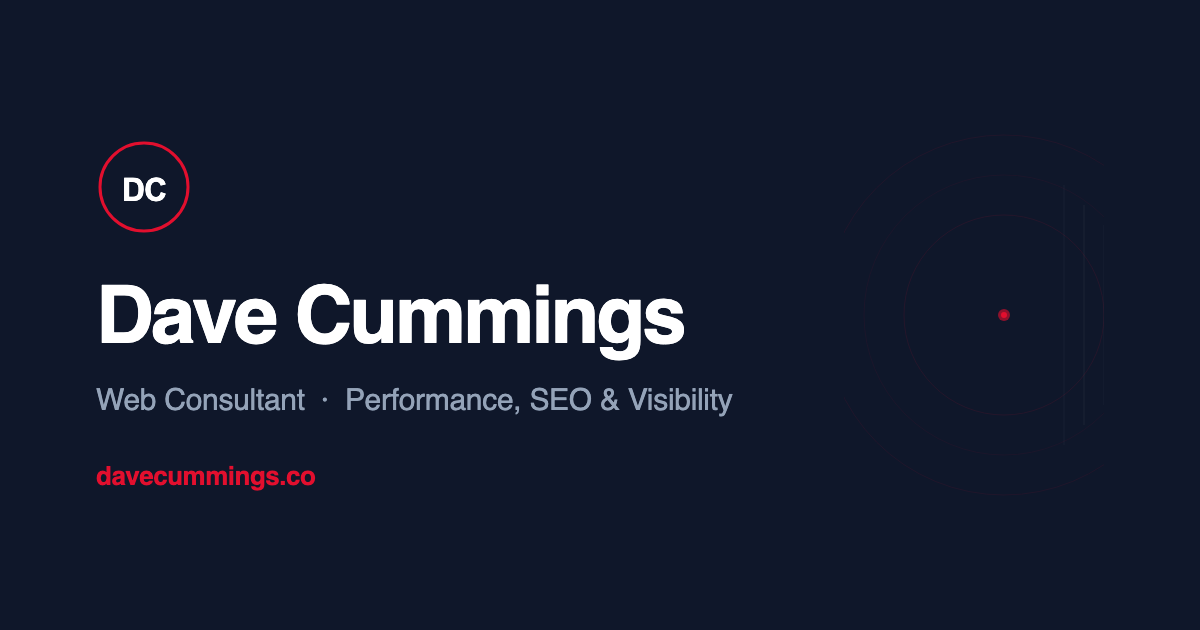
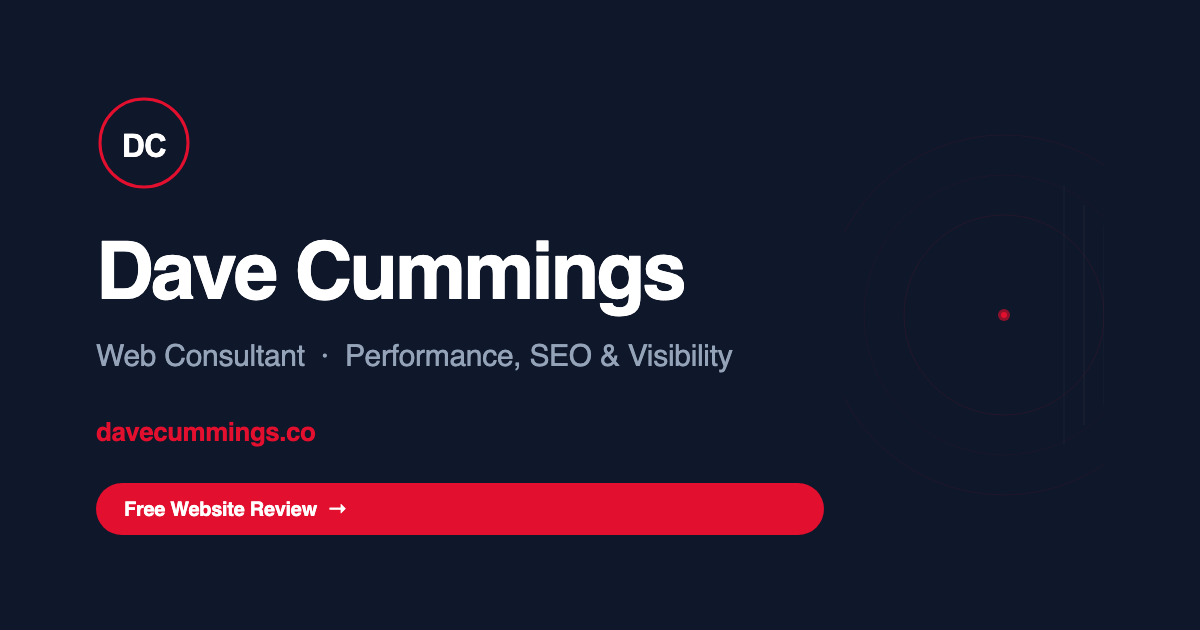
fix: improve OG metadata and add CTA to OG image

Changed region(s): [[0.0617, 0.181, 0.7092, 0.8746], [0.0925, 0.1508, 0.1542, 0.181]]

diff --git a/index.html b/index.html
@@ -10,15 +10,15 @@
     <!-- Open Graph / Facebook -->
     <meta property="og:type" content="website">
     <meta property="og:url" content="https://davecummings.co/">
-    <meta property="og:title" content="Dave Cummings - Website Consultant">
-    <meta property="og:description" content="I build fully optimized websites that work — and fix the ones that don't. 16 years of development expertise.">
+    <meta property="og:title" content="Dave Cummings - Website Performance & SEO Consultant">
+    <meta property="og:description" content="I build fully optimized websites that work — and fix the ones that don't. Performance, SEO & web consulting for small businesses.">
     <meta property="og:image" content="https://davecummings.co/og-image.png">
 
     <!-- Twitter -->
     <meta property="twitter:card" content="summary_large_image">
     <meta property="twitter:url" content="https://davecummings.co/">
-    <meta property="twitter:title" content="Dave Cummings - Website Consultant">
-    <meta property="twitter:description" content="I build fully optimized websites that work — and fix the ones that don't. 16 years of development expertise.">
+    <meta property="twitter:title" content="Dave Cummings - Website Performance & SEO Consultant">
+    <meta property="twitter:description" content="I build fully optimized websites that work — and fix the ones that don't. Performance, SEO & web consulting for small businesses.">
     <meta property="twitter:image" content="https://davecummings.co/og-image.png">
     
     <link rel="canonical" href="https://davecummings.co/">

diff --git a/product-images/og-image.html b/product-images/og-image.html
@@ -29,8 +29,13 @@
         </div>
 
         <!-- Domain -->
-        <div style="font-family:'Space Grotesk',sans-serif;font-weight:700;font-size:26px;color:#e20f2e;letter-spacing:-0.5px;">
+        <div style="font-family:'Space Grotesk',sans-serif;font-weight:700;font-size:26px;color:#e20f2e;letter-spacing:-0.5px;margin-bottom:36px;">
             davecummings.co
+        </div>
+
+        <!-- CTA pill -->
+        <div style="display:inline-flex;align-items:center;gap:10px;background:#e20f2e;color:white;font-family:'Space Grotesk',sans-serif;font-weight:700;font-size:20px;padding:14px 28px;border-radius:50px;letter-spacing:-0.3px;">
+            Free Website Review &nbsp;→
         </div>
     </div>
 
